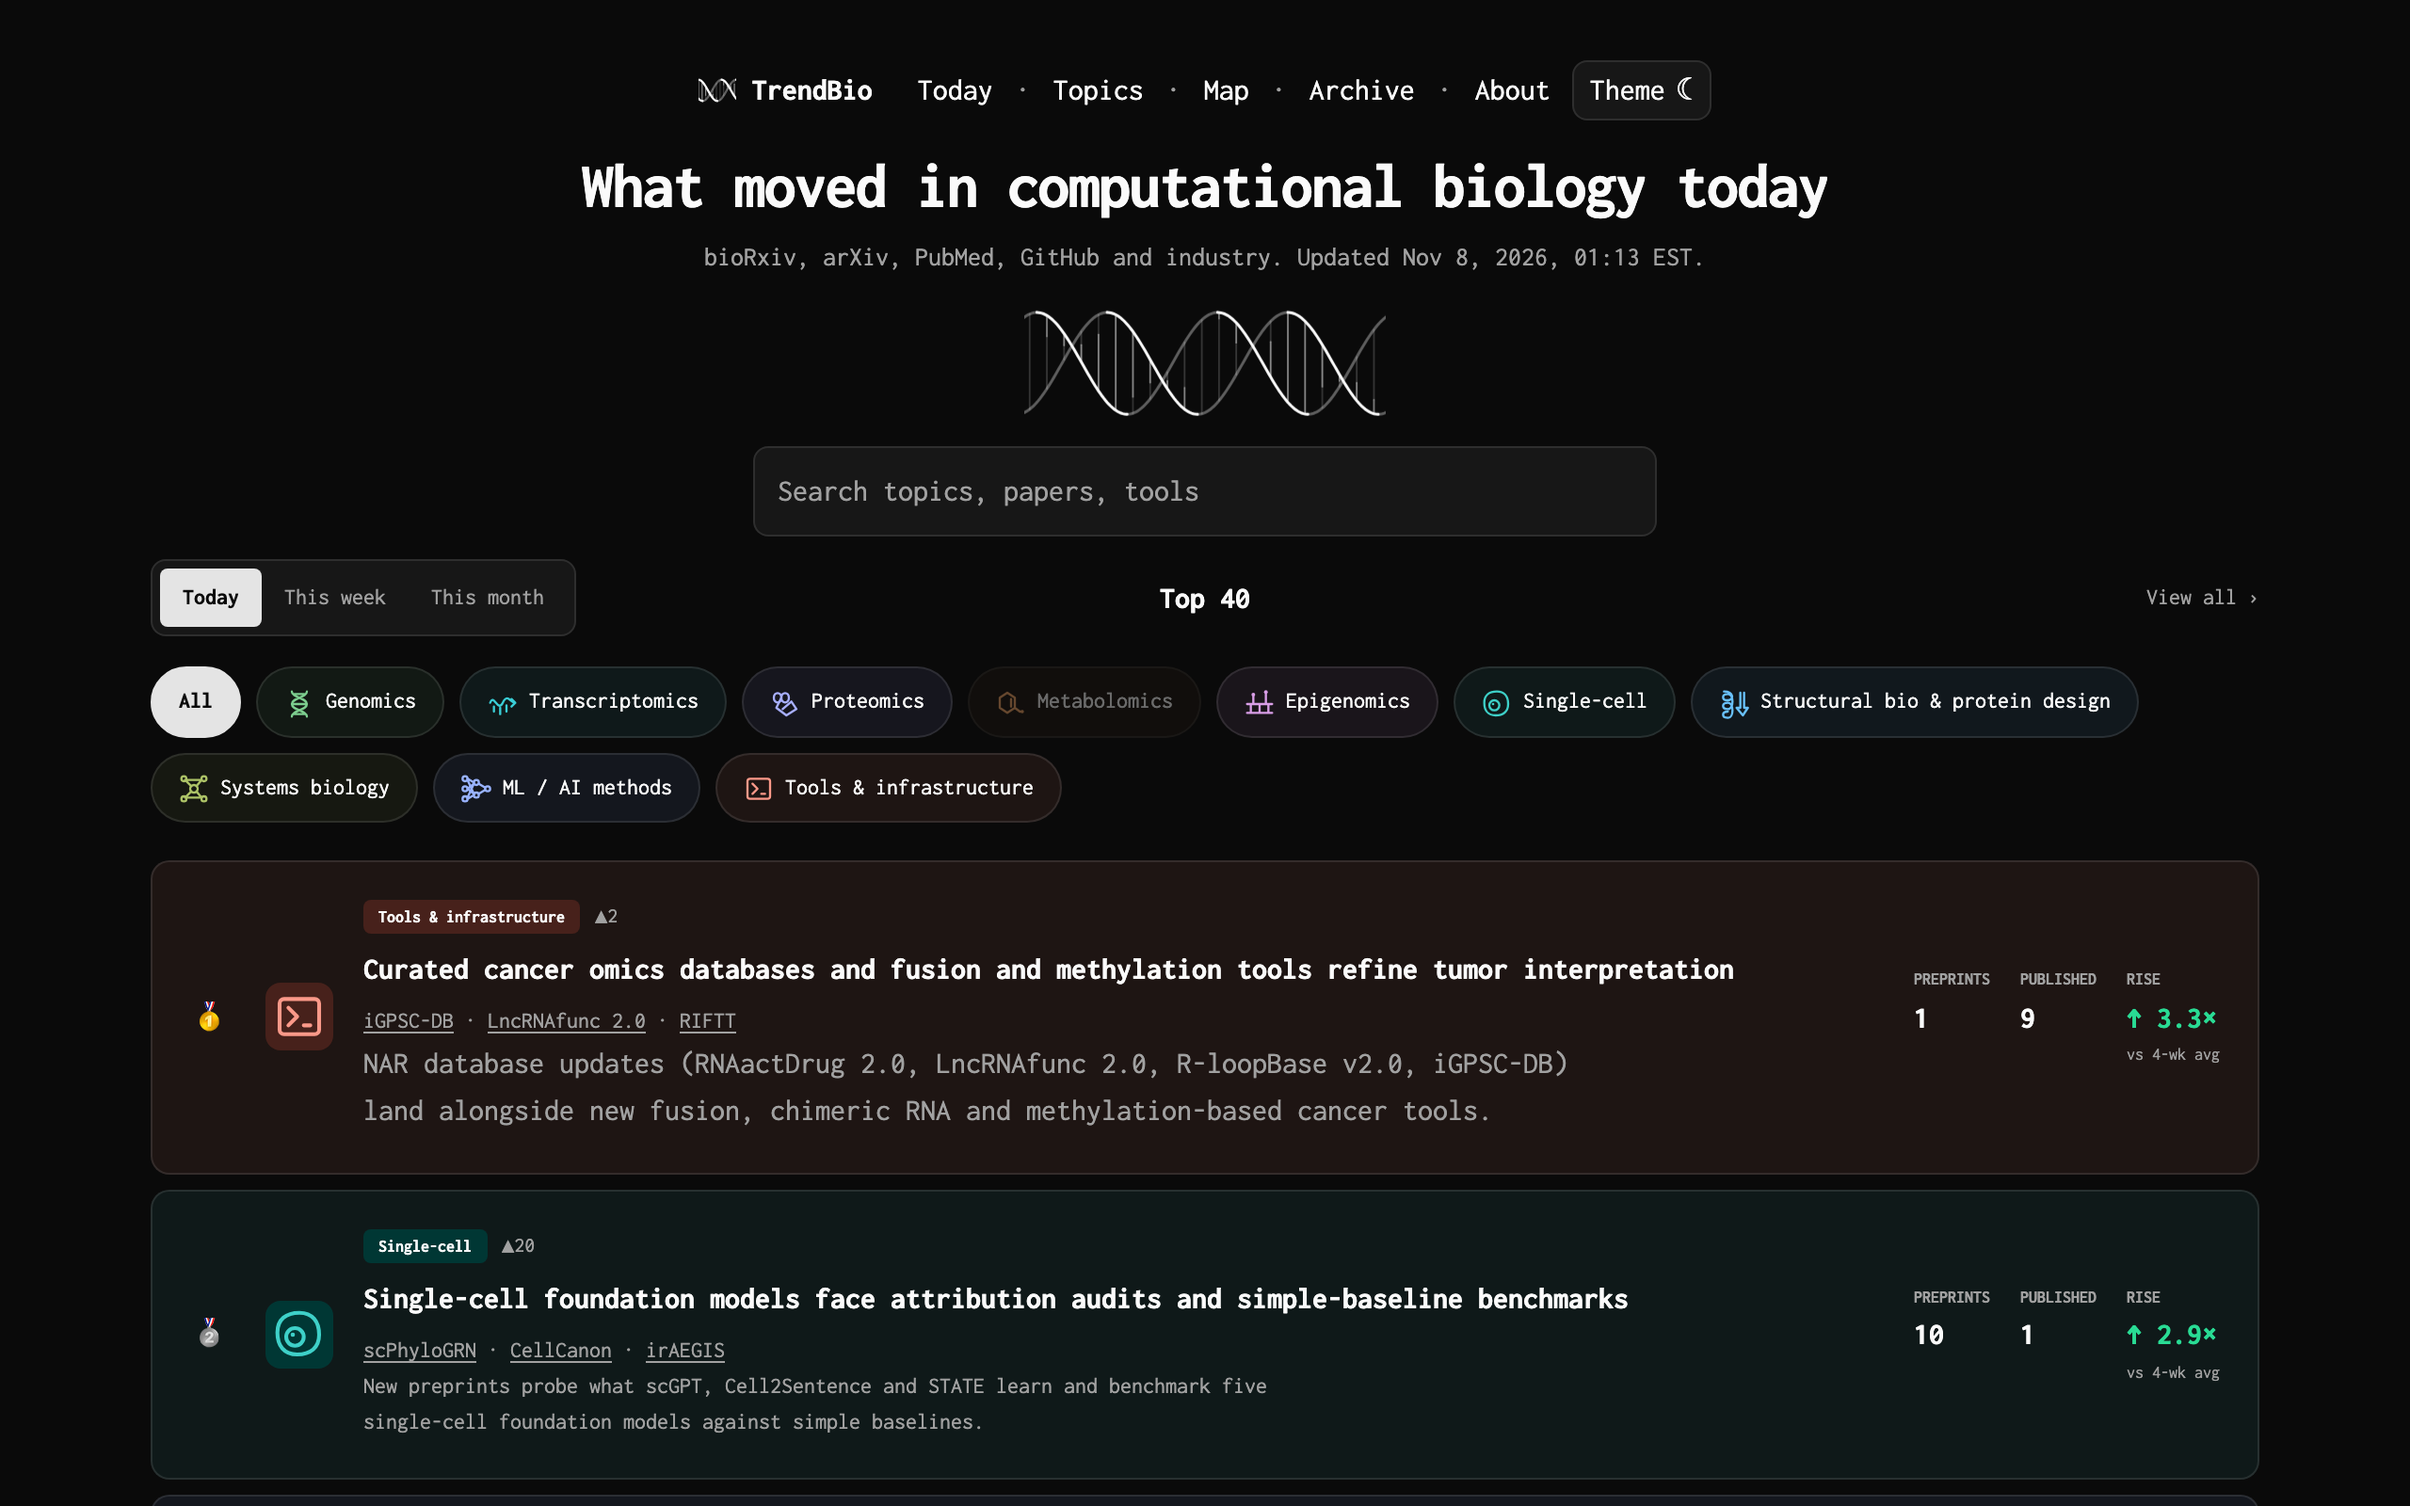
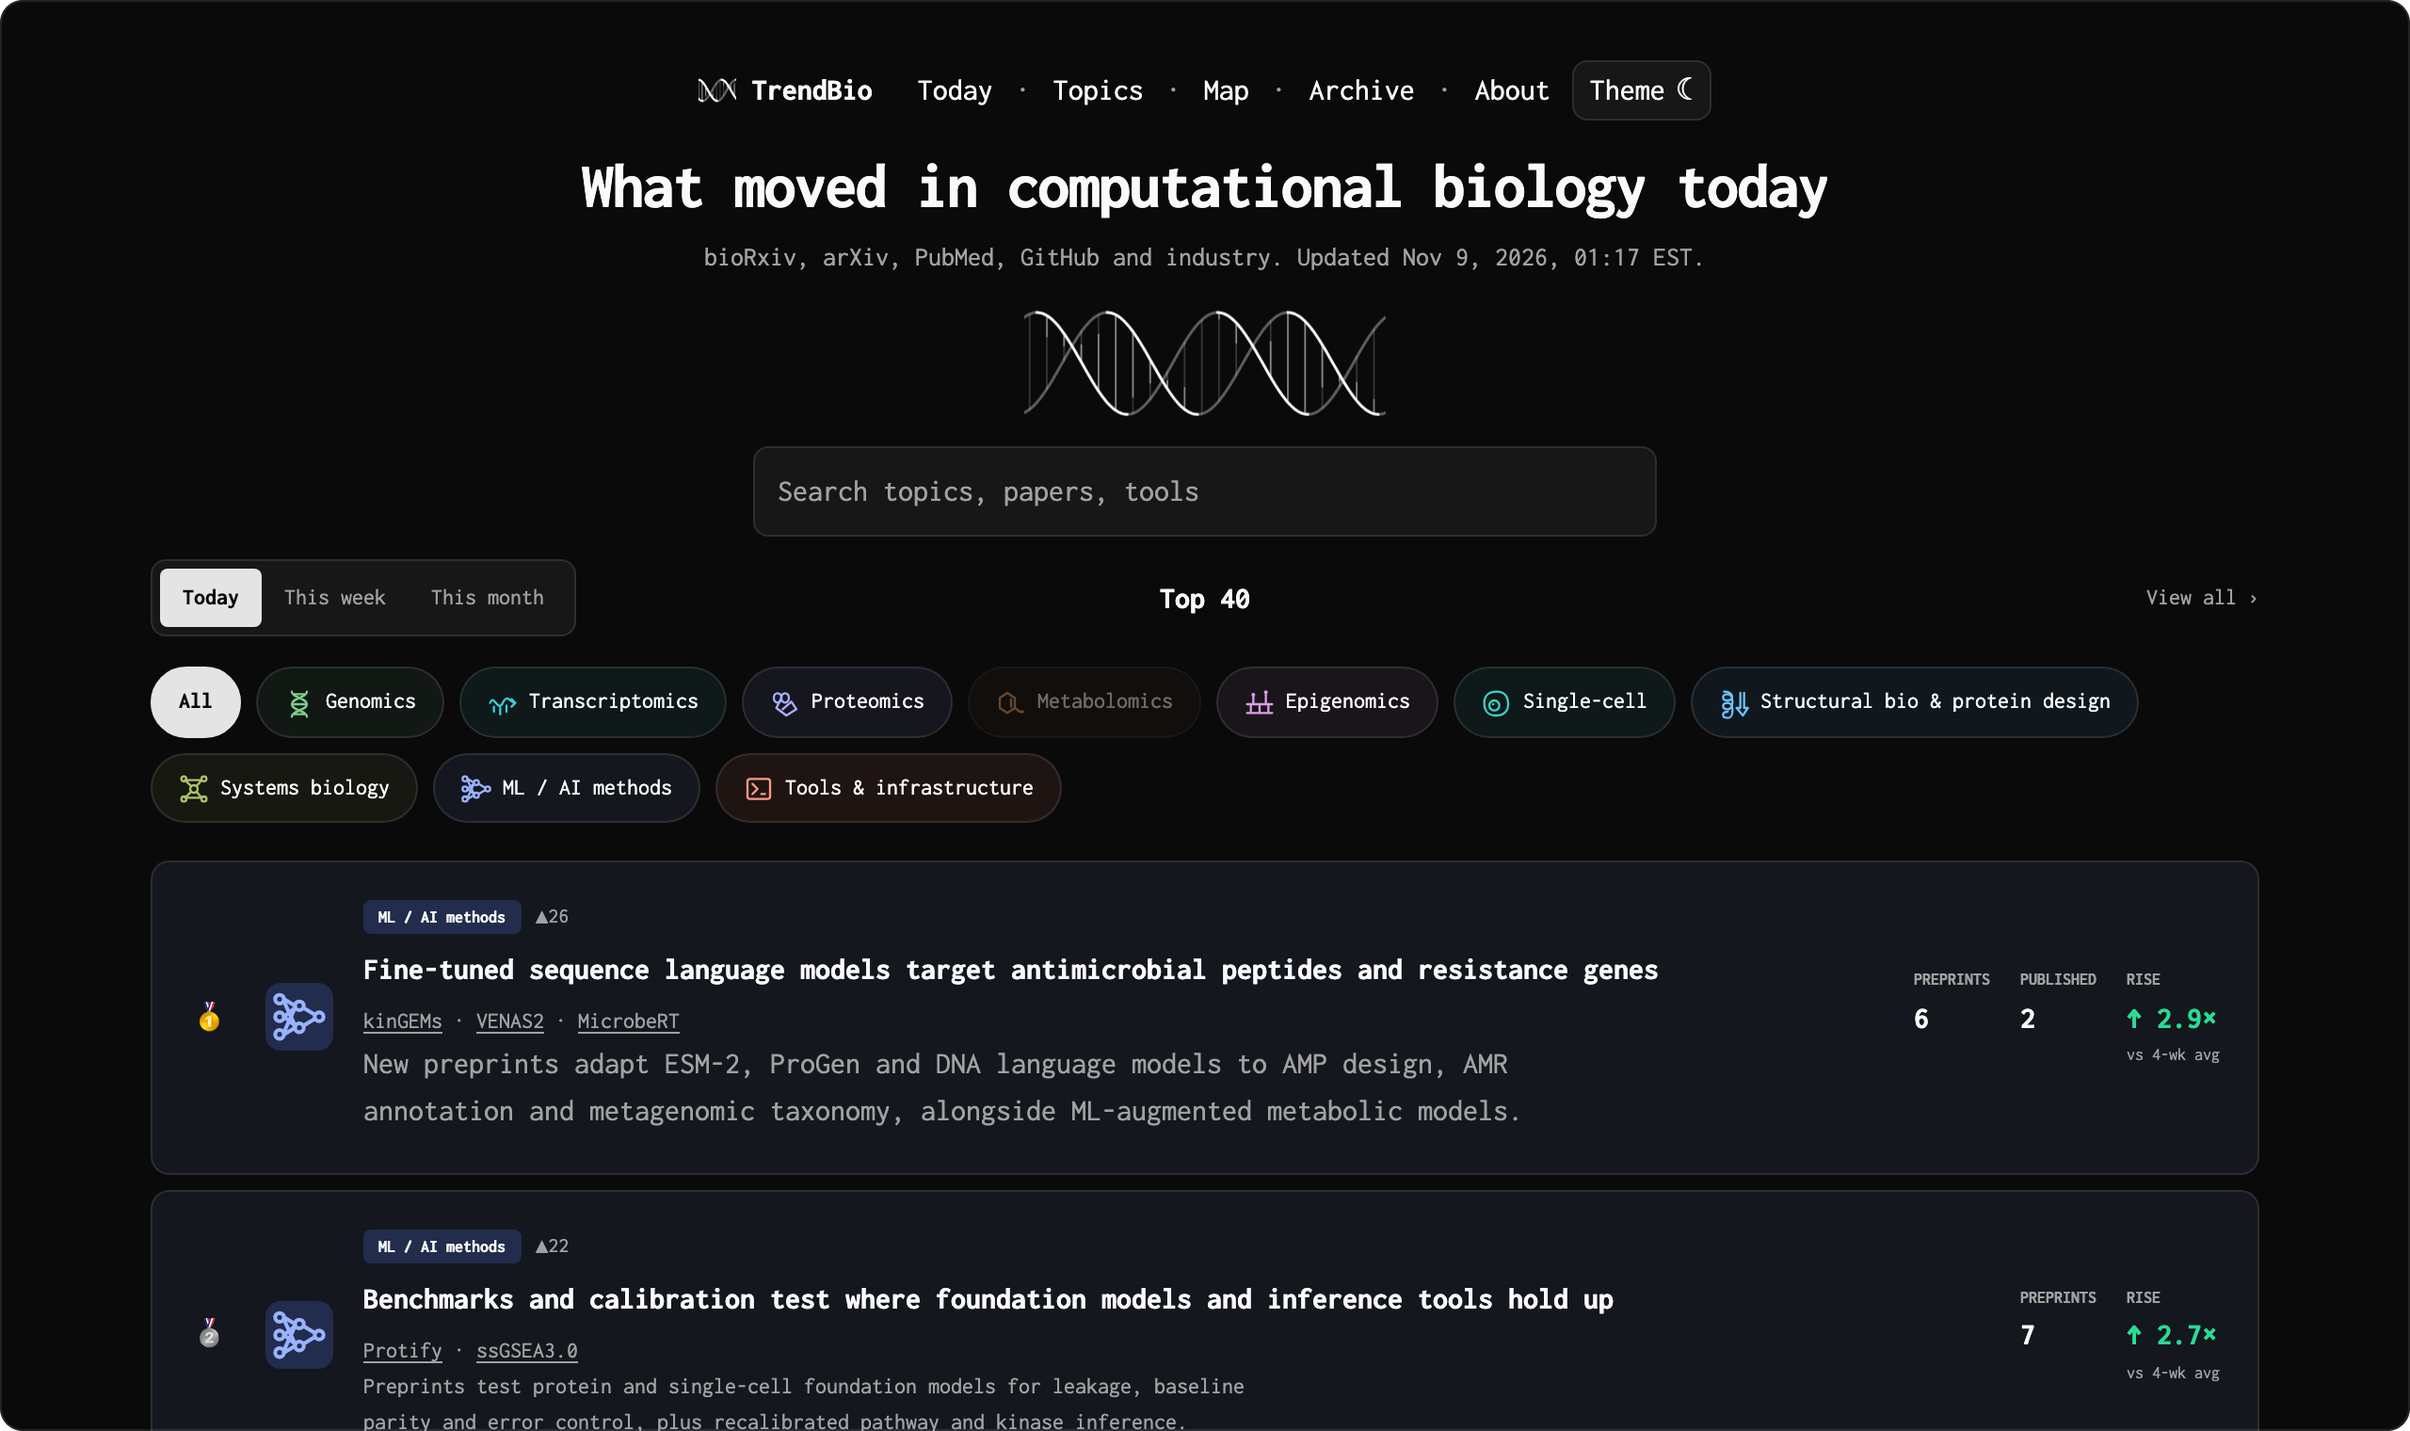
docs: README round two — animated helix, SVG pipeline, tighter tables

diff --git a/README.md b/README.md
@@ -1,85 +1,71 @@
 <p align="center">
   <picture>
-    <source media="(prefers-color-scheme: light)" srcset="docs/readme/mark-light.svg">
-    <img src="docs/readme/mark-dark.svg" width="56" alt="">
+    <source media="(prefers-color-scheme: light)" srcset="docs/readme/helix-light.svg">
+    <img src="docs/readme/helix-dark.svg" width="320" alt="">
   </picture>
 </p>
 
 <h1 align="center">TrendBio</h1>
 
-<p align="center">
-  What is moving in computational biology, ranked every day.<br>
-  Papers, code and industry — clustered, scored and summarised by a pipeline, not a newsroom.
-</p>
+<p align="center">What is moving in computational biology, ranked every day.</p>
 
 <p align="center">
-  <a href="https://trendbio.dev"><strong>trendbio.dev</strong></a>
+  <a href="https://trendbio.dev">trendbio.dev</a>&ensp;·&ensp;<a href="https://trendbio.dev/feed.xml">Atom feed</a>&ensp;·&ensp;<a href="https://trendbio.dev/about">How it works</a>
 </p>
 
-<p align="center">
-  <a href="https://github.com/jam-sudo/TrendBio/actions/workflows/daily.yml"><img src="https://github.com/jam-sudo/TrendBio/actions/workflows/daily.yml/badge.svg" alt="Daily pipeline"></a>
-  <a href="https://github.com/jam-sudo/TrendBio/actions/workflows/deploy.yml"><img src="https://github.com/jam-sudo/TrendBio/actions/workflows/deploy.yml/badge.svg" alt="Deploy"></a>
-  <a href="https://github.com/jam-sudo/TrendBio/actions/workflows/ci.yml"><img src="https://github.com/jam-sudo/TrendBio/actions/workflows/ci.yml/badge.svg" alt="CI"></a>
-</p>
+<br>
 
 <picture>
   <source media="(prefers-color-scheme: light)" srcset="docs/readme/home-light.png">
-  <img src="docs/readme/home-dark.png" alt="The TrendBio home page: a centred helix, a search box, and the day's ranked research topics.">
+  <img src="docs/readme/home-dark.png" alt="The TrendBio home page: the helix, a search box, and the day's ranked research topics.">
 </picture>
 
-Every day TrendBio reads the new preprints, papers, repositories and company posts in computational biology, groups them into research topics, ranks the Top 40, and writes a short synthesis for each one. The result is one page a day for readers who already know the field. History runs back to 1 November 2025.
+<br>
+
+TrendBio reads each day's new preprints, papers, repositories and company posts in computational biology, groups them into research topics, ranks the Top 40 and writes a short synthesis for each. One page a day, for readers who already know the field, with history back to 1 November 2025.
 
 ## How a day is made
 
-```
-      bioRxiv · arXiv · PubMed          GitHub              22 RSS feeds
-       preprints and papers        repos and releases    company and news posts
-                 │                        │                        │
-                 └────────────────────────┼────────────────────────┘
-                                          ▼
-   collect ─▶ dedupe ─▶ enrich ─▶ embed ─▶ cluster ─▶ score ─▶  select ─▶ synthesize
-                        Haiku     SPECTER2 complete   rise      Top 40    Opus 1–5
-                                           linkage    diversity 1 per     Sonnet 6–20
-                                           d ≤ 0.10   velocity  category  Haiku 21–40
-                                                      volume    floor
-                                          │
-                                          ▼
-             commit data/computational/  ─▶  Astro build  ─▶  Cloudflare Pages
-```
+<picture>
+  <source media="(prefers-color-scheme: light)" srcset="docs/readme/pipeline-light.svg">
+  <img src="docs/readme/pipeline-dark.svg" alt="Sources flow into eight stages: collect, dedupe, enrich, embed, cluster, score, select, synthesize; the result is committed and deployed.">
+</picture>
+
+| Source | Scope |
+|---|---|
+| bioRxiv | 7 categories, 2 of them keyword-filtered |
+| arXiv | `q-bio.*`, plus keyword-filtered `cs.LG`, `cs.AI` and `stat.ML` |
+| PubMed | 21 journals in full, 16 more keyword-filtered; copies of bioRxiv and medRxiv preprints dropped |
+| GitHub | 20 watched repositories and 8 topic searches; stars and releases |
+| RSS | 22 feeds: 18 company and institute blogs, 4 keyword-filtered news feeds |
 
 | Stage | What happens |
 |---|---|
-| Collect | bioRxiv (7 categories), arXiv (`q-bio.*`, plus keyword-filtered `cs.LG`, `cs.AI`, `stat.ML`), PubMed (21 journals in full, 16 keyword-filtered), GitHub (20 watched repositories plus 8 topic searches), 22 RSS feeds (18 company, 4 news) |
-| Dedupe | Preprint versions collapse; PubMed copies of bioRxiv and medRxiv preprints are dropped; preprints link to their published versions when known |
-| Enrich | Claude Haiku judges relevance and writes a one-line summary; number claims are grounded against the title and abstract |
-| Embed and cluster | SPECTER2 (`allenai/specter2_base`) embeddings; complete-linkage clustering at cosine distance 0.10; a topic needs at least 3 papers |
-| Attach | A code or industry item joins its nearest topic only when cosine similarity reaches 0.94; it adds evidence, never paper counts |
+| Dedupe | Preprint versions collapse into one item; preprints link to their published versions when known |
+| Enrich | Claude Haiku judges relevance and writes a one-line summary; numbers are checked against the title and abstract |
+| Cluster | SPECTER2 embeddings, complete linkage at cosine distance 0.10, at least 3 papers per topic |
+| Attach | Code and industry items join their nearest topic at similarity ≥ 0.94, as evidence, never as paper counts |
 | Score | rise 45 % · diversity 25 % · code velocity 15 % · volume 15 %, with a 5 % penalty for ranking yesterday |
-| Select | One topic reserved per represented category, then by score, at most 8 per category, Top 40 |
-| Synthesize | Claude Opus for ranks 1–5, Sonnet for 6–20, Haiku for 21–40; backfilled history uses Haiku |
+| Select | 1 topic reserved per represented category, at most 8 per category, Top 40 |
+| Synthesize | Opus for ranks 1–5, Sonnet for 6–20, Haiku for 21–40 and for backfilled history |
 
-Topics persist across days when a cluster shares enough papers with the adjacent seven days of a topic's history (Jaccard ≥ 0.25) or sits close enough to its centroid (similarity ≥ 0.95), with a history entry within 10 days in either direction. A topic keeps its page, its history and its rank changes.
+A topic keeps its page across days when a new cluster shares its recent papers (Jaccard ≥ 0.25) or sits on its centroid (similarity ≥ 0.95) within 10 days, so rank changes and history are real.
 
 ## The site
 
-[Today](https://trendbio.dev) · [Topics](https://trendbio.dev/topics) · [Map](https://trendbio.dev/map/) · [Archive](https://trendbio.dev/archive) · [About](https://trendbio.dev/about)
+Full rows for the Top 5 and compact rows to 20, with rank changes and the tool names each topic mentions; forty on request. Every topic links its evidence, exports BibTeX and keeps a day-by-day history. Weekly and monthly rankings, a topic map and a year of archive pages sit beside it. Three side lists catch what clustering misses: **From code**, **From industry** and **Shared by researchers**, the last from Bluesky and display only. Search is instant and local (Pagefind), feeds are Atom (daily Top 5 and per category), times are US Eastern, and the theme follows yours.
 
-- Full rows for the Top 5, compact rows to 20, "Show more" to 40; rows carry rank changes, and the Top 20 show tool names extracted from paper titles.
-- Every topic links its evidence, offers BibTeX for its papers, and keeps a day-by-day history.
-- Weekly and monthly rankings, a topic map, and a year of archive pages.
-- Three side lists: From code (GitHub repositories and star gains), From industry (company announcements), and Shared by researchers (papers getting attention on Bluesky; display only, never affects ranking).
-- Instant search as you type (Pagefind, built at deploy time), Atom feeds for the daily Top 5 and per category, a dark and a light theme, times in US Eastern.
-- Astro 5, static files on Cloudflare Pages, Cloudflare Web Analytics without cookies.
+Astro 5 on Cloudflare Pages. No cookies: Cloudflare Web Analytics counts page views.
 
 ## Schedule and cost
 
-A [Cloudflare Worker](ops/daily-trigger/) dispatches the Daily pipeline at 06:05 UTC; GitHub's own schedule stays as a late-arriving backup that skips when a run created that UTC day already succeeded. A run takes about ten minutes and commits its output to `data/computational/`; the site rebuilds after every push to `main` and after every pipeline run.
+A [Cloudflare Worker](ops/daily-trigger/) starts the run at 06:05 UTC; GitHub's own schedule is the late-arriving backup and skips when a run already succeeded that UTC day. About ten minutes later the run commits to `data/computational/` and the site rebuilds.
 
-Planned LLM spend is about USD 0.50 a day under a USD 55 monthly ceiling; once the month's spend passes the ceiling, new syntheses fall back to Haiku and the day is marked degraded. Only aggregate counts, paper IDs and per-host coverage from Bluesky are stored; no identities, post text or credentials ever are.
+LLM spend is about USD 0.50 a day against a USD 55 monthly ceiling; past the ceiling, new syntheses fall back to Haiku and the day is marked degraded. From Bluesky only aggregate counts, paper IDs and per-host coverage are kept, never identities, post text or credentials.
 
 ## Run it yourself
 
-Python 3.12 and Node 22. Set `ANTHROPIC_API_KEY` for live pipeline commands; `NCBI_API_KEY` and `GITHUB_TOKEN` are optional but raise rate limits.
+Python 3.12 and Node 22. `ANTHROPIC_API_KEY` for live pipeline commands; `NCBI_API_KEY` and `GITHUB_TOKEN` optional, for higher rate limits.
 
 ```sh
 pip install -e '.[dev]'
@@ -109,12 +95,10 @@ docs/       design spec, implementation plans, operations guide
 
 ## Documentation
 
-- [Design spec](docs/superpowers/specs/2026-11-02-trendbio-design.md) — the product decisions and why
-- [Operations](docs/operations.md) — sources, thresholds, workflows, degraded days, sponsors, measured costs
-- [Implementation plans](docs/superpowers/plans/) — one file per shipped change
+[Design spec](docs/superpowers/specs/2026-11-02-trendbio-design.md)&ensp;·&ensp;[Operations](docs/operations.md)&ensp;·&ensp;[Implementation plans](docs/superpowers/plans/)
 
 ## License
 
-Code is [MIT](LICENSE). Everything the pipeline produces under `data/` — headlines, summaries, syntheses, clusters, scores and rankings — is [CC BY 4.0](data/LICENSE); cite it as TrendBio (trendbio.dev). Paper titles, abstracts and author names in `data/` belong to their authors and publishers and are not covered.
+Code is [MIT](LICENSE). What the pipeline produces under `data/`, from headlines to rankings, is [CC BY 4.0](data/LICENSE), cited as TrendBio (trendbio.dev). Paper titles, abstracts and author names belong to their authors and publishers.
 
-Headlines, summaries and syntheses are machine-generated and can be wrong; follow the evidence links before relying on a claim. Contact: jaemin6013@gmail.com
+<p align="center"><sub>Headlines, summaries and syntheses are machine-generated and can be wrong; follow the evidence links before relying on a claim.&ensp;·&ensp;jaemin6013@gmail.com</sub></p>

diff --git a/docs/operations.md b/docs/operations.md
@@ -43,7 +43,7 @@ Discovered repos with matching normalized descriptions and variant names, or ide
 
 ## Clustering, attachment and continuity
 
-Paper clusters use complete linkage at cosine distance 0.10, with at least three papers.
+Paper clusters use SPECTER2 (`allenai/specter2_base`) embeddings and complete linkage at cosine distance 0.10, with at least three papers.
 Each relevant code/industry item attaches to only its nearest paper centroid when cosine
 similarity reaches `attach_min_similarity` (0.94; [calibration](../tests/evidence/code-industry-2026-11-05.md)).
 Attached IDs are stored separately in `attached_item_ids` (empty for older histories),
